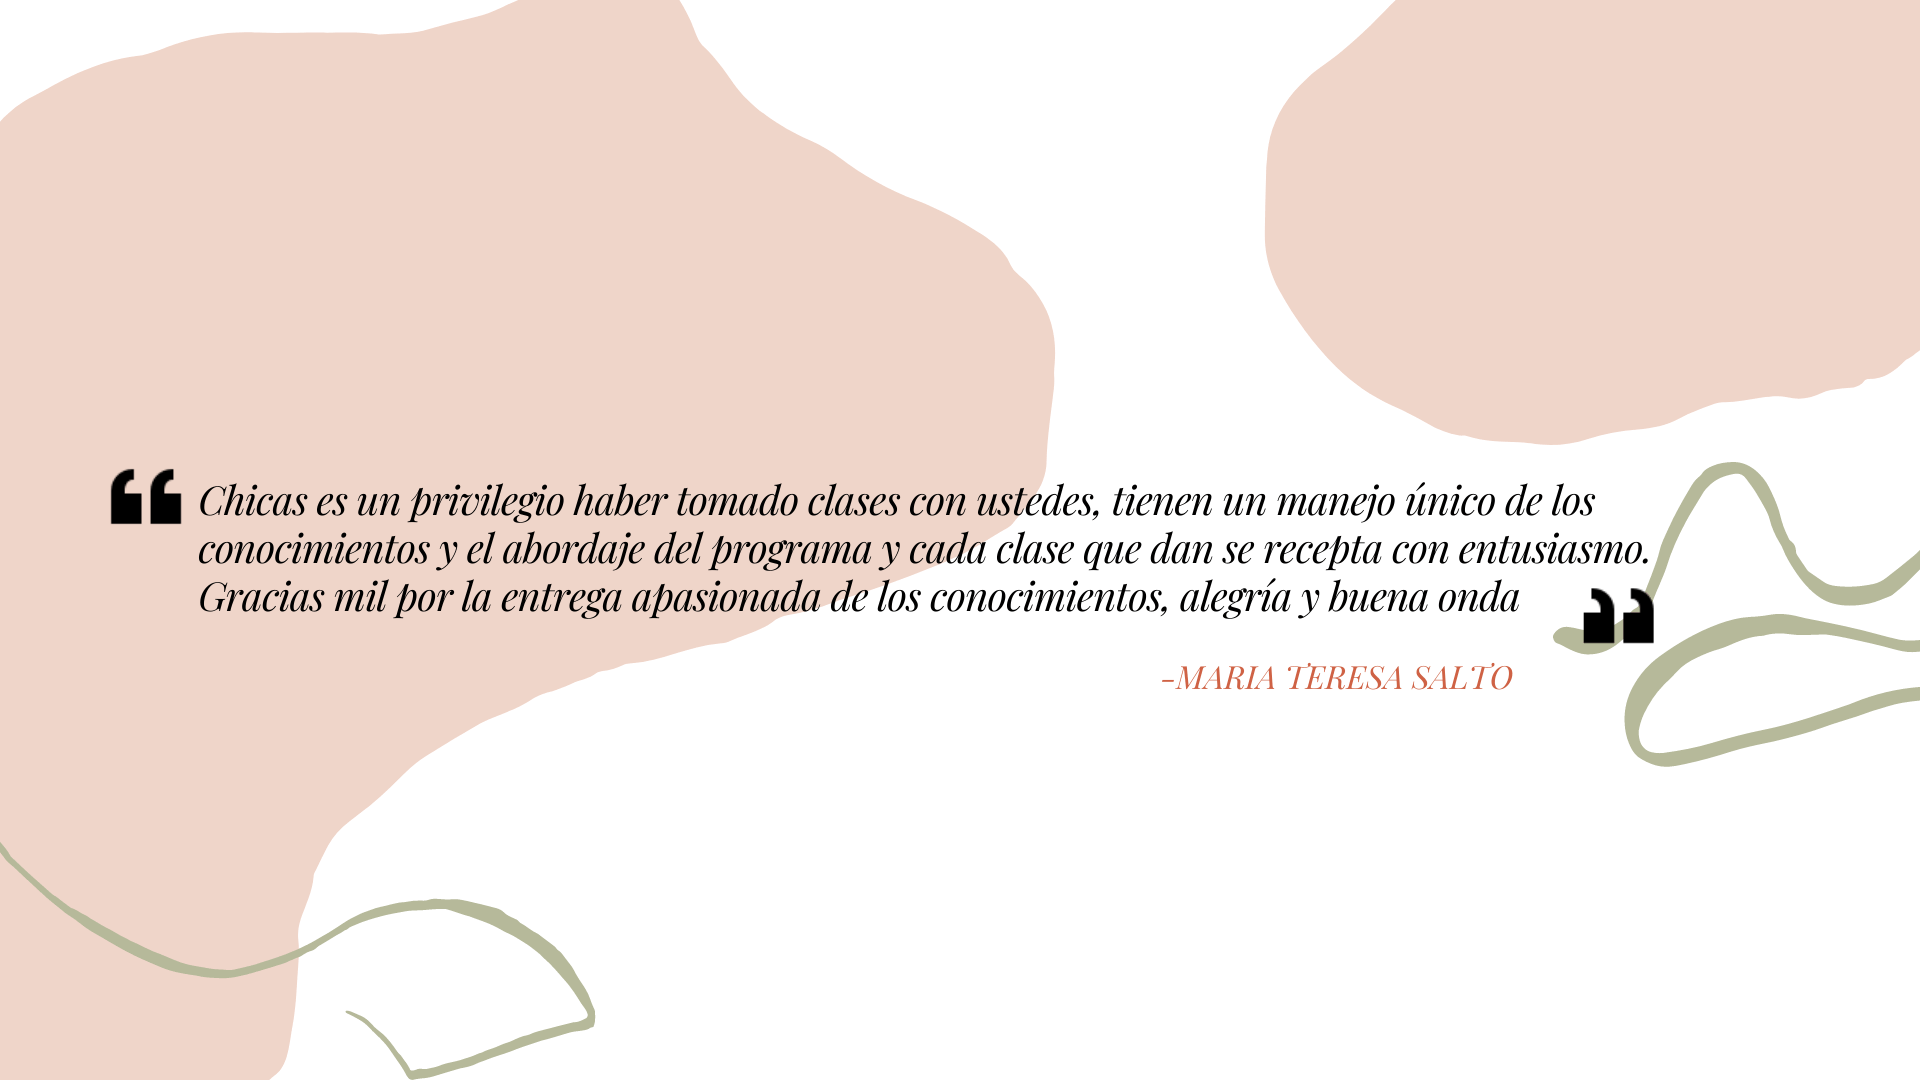
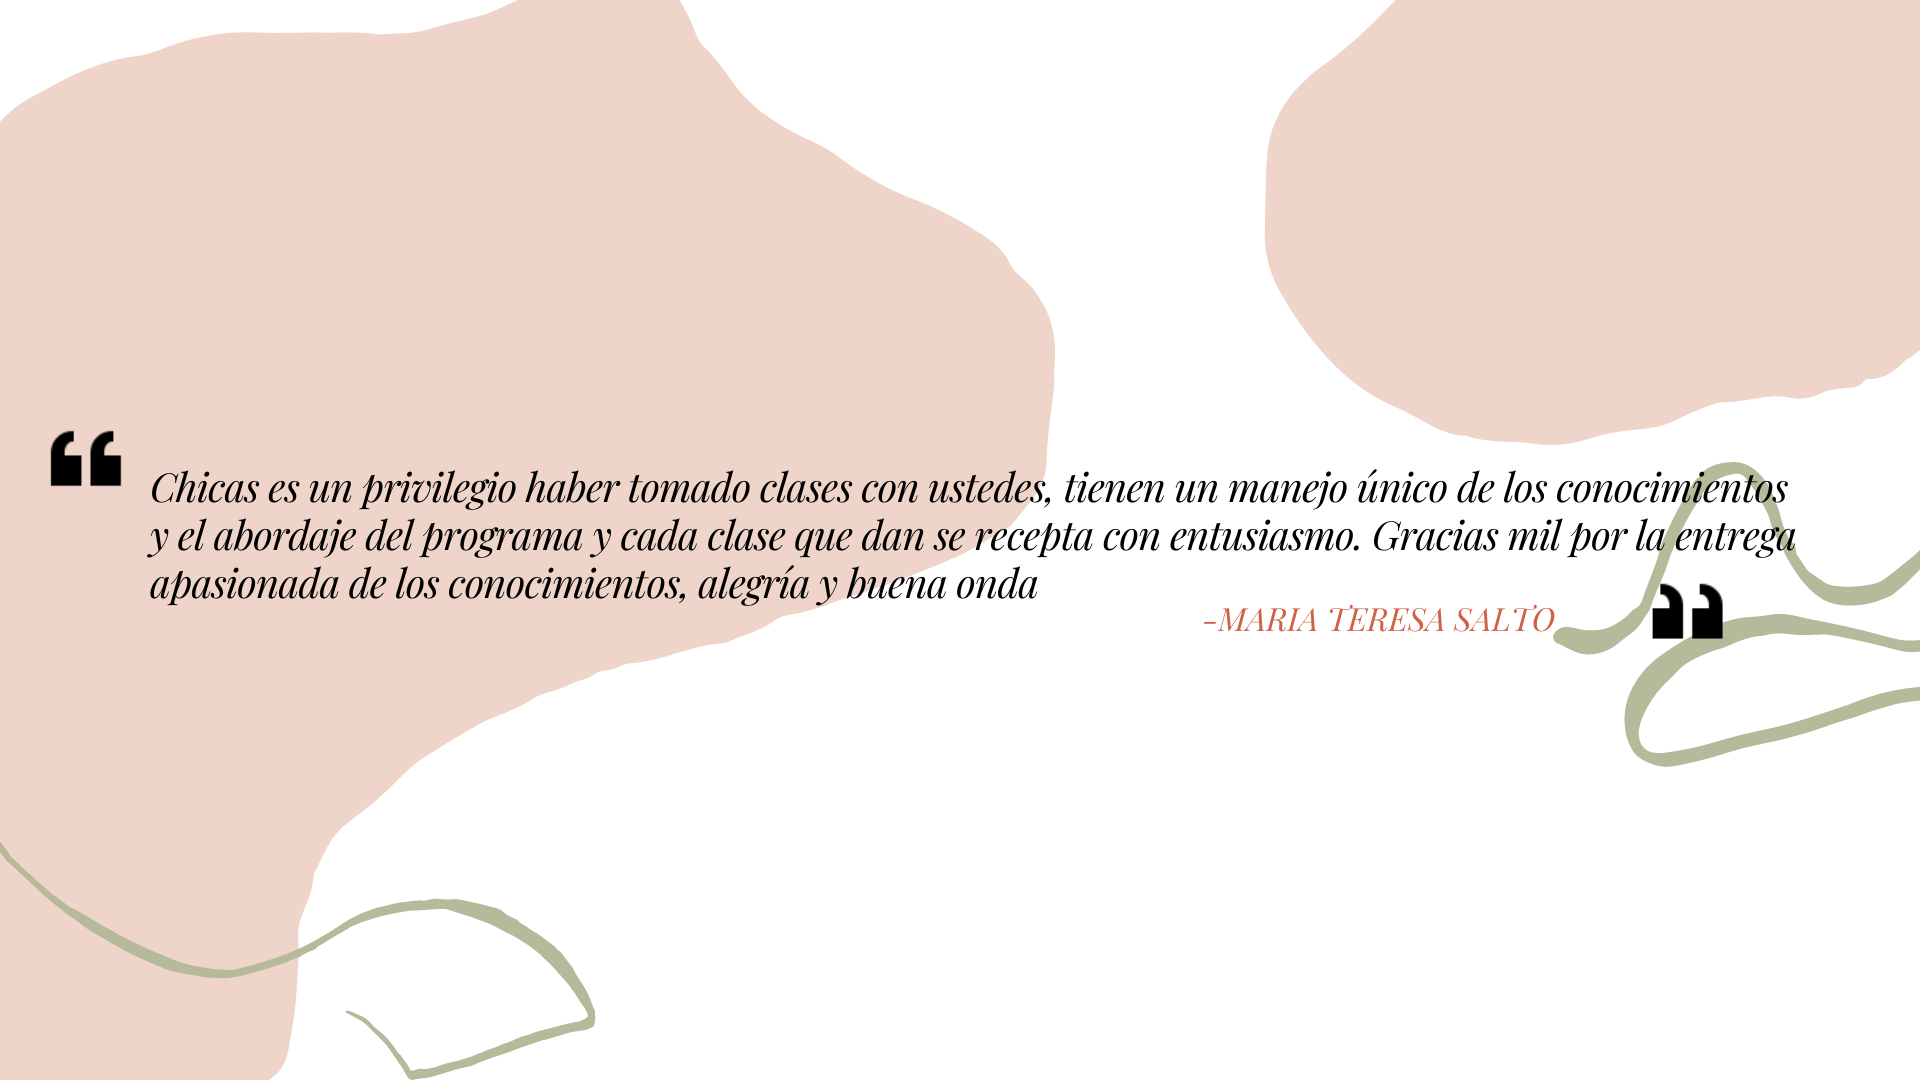
fix carousel

Changed region(s): [[0.0, 0.3972, 0.9375, 0.6111], [0.5938, 0.6111, 0.7812, 0.6417]]

diff --git a/index.html b/index.html
@@ -119,56 +119,34 @@
             <div id="carouselControls" class="carousel slide" data-bs-ride="carousel">
                 <div class="carousel-inner">
                 <div class="carousel-item active">
-                    <!-- <img src="./img/icons/quote-left.png" class="quote-right" alt=""><br>
-                    <p class="d-block w-100 carousel__p">El curso de decoración y diseño de interiores es de excelente nivel, muy didáctico y brindan todo lo necesario para facilitar el aprendizaje!”</p>
-                    <img src="./img/icons/quote-right.png" class="quote-right" alt=""><br> -->
-                    <img src="./img/reviews/OurBestsellers.png" class="carousel-img" width="100%" alt="">
-                    <!-- <p>-Teresa Salto</p> -->
+                    <img src="./img/reviews/OurBestsellers.png" class="carousel-img" width="95%"  alt="El curso de decoración y diseño de interiores es de excelente nivel, muy didáctico y brindan todo lo necesario para facilitar el aprendizaje">
                 </div>
                 <div class="carousel-item">
-                    <img src="./img/reviews/OurBestsellers2.png" width="100%" height="100%" alt="">
-                    <!-- <p class="d-block w-100 carousel__p">“No se pierdan de hacer estos cursos, ¡Más que recomendables! Predisposición y ganas de transmitir todo lo que saben es lo que las destaca a Marina y Gladys. Gracias por contagiar su pasión por el diseño.”</p>
-                    <p>-Eluney</p> -->
+                    <img src="./img/reviews/OurBestsellers2.png" width="95%%" alt="No se pierdan de hacer estos cursos, ¡Más que recomendables! Predisposición y ganas de transmitir todo lo que saben es lo que las destaca a Marina y Gladys. Gracias por contagiar su pasión por el diseño">
                 </div>
                 <div class="carousel-item">
-                    <img src="./img/reviews/OurBestsellers3.png" width="100%" alt="">
-                    <!-- <p class="d-block w-100 carousel__p">“¡Hermoso curso! ¡Súper recomendable! Las profes son unas genias! Gracias Marina y Gladys por su profesionalismo y generosidad.”</p>
-                    <p>-Felicitas Moyano</p> -->
+                    <img src="./img/reviews/OurBestsellers3.png" width="95%%" alt="¡Hermoso curso! ¡Súper recomendable! Las profes son unas genias! Gracias Marina y Gladys por su profesionalismo y generosidad">
                 </div>
                 <div class="carousel-item">
-                    <img src="./img/reviews/OurBestsellers4.png" width="100%" alt="">
-                    <!-- <p class="d-block w-100 carousel__p">“Las clases son geniales, las profes están las 24 hs a tu disposición y siempre con la mejor!”</p>
-                    <p>-Angelo Ballaman</p> -->
+                    <img src="./img/reviews/OurBestsellers4.png" width="95%%" alt="Las clases son geniales, las profes están las 24 hs a tu disposición y siempre con la mejor!">
                 </div>
                 <div class="carousel-item">
-                    <img src="./img/reviews/OurBestsellers5.png" width="100%" alt="">
-                    <!-- <p class="d-block w-100 carousel__p">“Hermosa experiencia, llena de contenidos y profes excelentes. ¡Súper recomendable!”</p>
-                    <p>-Candela Garcia</p> -->
+                    <img src="./img/reviews/OurBestsellers5.png" width="95%%" alt="Hermosa experiencia, llena de contenidos y profes excelentes. ¡Súper recomendable!">
                 </div>
                 <div class="carousel-item">
-                    <img src="./img/reviews/OurBestsellers6.png" width="100%" alt="">
-                    <!-- <p class="d-block w-100 carousel__p">“¡Excelente! Súper inspirador, unas genias las profes ¡Mucho aporte y experiencia!”</p>
-                    <p>-Daiana Michelod</p> -->
+                    <img src="./img/reviews/OurBestsellers6.png" width="95%%" alt="¡Excelente! Súper inspirador, unas genias las profes ¡Mucho aporte y experiencia!">
                 </div>
                 <div class="carousel-item">
-                    <img src="./img/reviews/OurBestsellers7.png" width="100%" alt="">
-                    <!-- <p class="d-block w-100 carousel__p">“Mi experiencia con el curso es excelente. Volvería a realizar otros cursos con Deco Por 3, mucha información y están pendientes de lo que cada uno necesita para poder ayudarnos y guiarnos. ¡Felicitaciones! ”</p>
-                    <p>-Elizabeth Viale</p> -->
+                    <img src="./img/reviews/OurBestsellers7.png" width="95%%" alt="Mi experiencia con el curso es excelente. Volvería a realizar otros cursos con Deco Por 3, mucha información y están pendientes de lo que cada uno necesita para poder ayudarnos y guiarnos. ¡Felicitaciones!">
                 </div>
                 <div class="carousel-item">
-                    <img src="./img/reviews/OurBestsellers8.png" width="100%" alt="">
-                    <!-- <p class="d-block w-100 carousel__p">“Chicas es un privilegio haber tomado clases con ustedes, tienen un manejo único de los conocimientos y el abordaje del programa y cada clase que dan se recepta con entusiasmo. Gracias mil por la entrega apasionada de los conocimientos, alegría y buena onda .”</p>
-                    <p>-Maria Teresa Salto</p> -->
+                    <img src="./img/reviews/OurBestsellers8.png" width="95%%" alt="Chicas es un privilegio haber tomado clases con ustedes, tienen un manejo único de los conocimientos y el abordaje del programa y cada clase que dan se recepta con entusiasmo. Gracias mil por la entrega apasionada de los conocimientos, alegría y buena onda">
                 </div>
                 <div class="carousel-item">
-                    <img src="./img/reviews/OurBestsellers9.png" width="100%" alt="">
-                    <!-- <p class="d-block w-100 carousel__p">“¡Gracias chicas! No saben la alegría que me da poder estar en el camino indicado, sus clases son tan claras que me permiten captar todo lo necesario. ¡Feliz de estar en este curso! ”</p>
-                    <p>-Carla Cavazza</p> -->
+                    <img src="./img/reviews/OurBestsellers9.png" width="95%%" alt="¡Gracias chicas! No saben la alegría que me da poder estar en el camino indicado, sus clases son tan claras que me permiten captar todo lo necesario. ¡Feliz de estar en este curso! ">
                 </div>
                 <div class="carousel-item">
-                    <img src="./img/reviews/OurBestsellers10.png" width="100%" alt="">
-                    <!-- <p class="d-block w-100 carousel__p">“Una experiencia única. ¡Colmada de conocimientos! Gracias!”</p>
-                    <p>-Luciana Ibarra</p> -->
+                    <img src="./img/reviews/OurBestsellers10.png" width="95%%" alt="Una experiencia única. ¡Colmada de conocimientos! Gracias!">
                 </div>
                 </div>
                 <button class="carousel-control-prev" type="button" data-bs-target="#carouselControls" data-bs-slide="prev">

diff --git a/views/cursos.html b/views/cursos.html
@@ -72,9 +72,9 @@
     <main class="main">
         <h1 class="h1__cursos">Cursos</h1><br><br><br>
         <h2 class="cursos_info">
-            <p>¿Te encanta la decoración y nunca te animaste? Con nuestros cursos aprenderás y descubrirás el maravilloso mundo del diseño interior y la decoración. <br><br>
+            <p>¿Te encanta la decoración y nunca te animaste? Con nuestros cursos aprenderás y descubrirás el maravilloso mundo del diseño interior y la decoración. 
             Son modalidad online-en vivo, con clases semanales.
-            Si no podés asistir, no te preocupes, las clases se graban para que las puedas ver cuando puedas, a <br><br>tu ritmo. Ponemos todos nuestros conocimientos a tu alcance, sin guardarnos nada.
+            Si no podés asistir, no te preocupes, las clases se graban para que las puedas ver cuando puedas, a tu ritmo. Ponemos todos nuestros conocimientos a tu alcance, sin guardarnos nada.
             <span>
                 Animate!
             </span>

diff --git a/assets/style.css b/assets/style.css
@@ -165,7 +165,7 @@ p{
     padding-top: 10vw;
     display: flex;
     justify-content: space-evenly;
-    margin-bottom: 15vw;
+    margin-bottom: 8vw;
 }
 
 .value{
@@ -185,7 +185,7 @@ p{
     width: 15vw;
     height: 15vw;
     margin-top: -98%;
-    margin-bottom: 5vw;
+    margin-bottom: 4vw;
 }
 @media screen and (max-width: 768px) {
   .value__icon{
@@ -295,7 +295,7 @@ p{
 /*-----CARROUSEL-----*/
 
 .carousel__container{
-    padding-top: 5vw;
+    padding-top: 1vw;
     padding-bottom: 5vw;
 }
 
@@ -751,7 +751,7 @@ ul{
 .cursos_info{
   padding: 25px 10vw;
   font-size: var(--text-desktop-size);
-  text-align: justify;
+  text-align: start;
 }
 .cursos_info span{
   color: var(--yellow-200);
